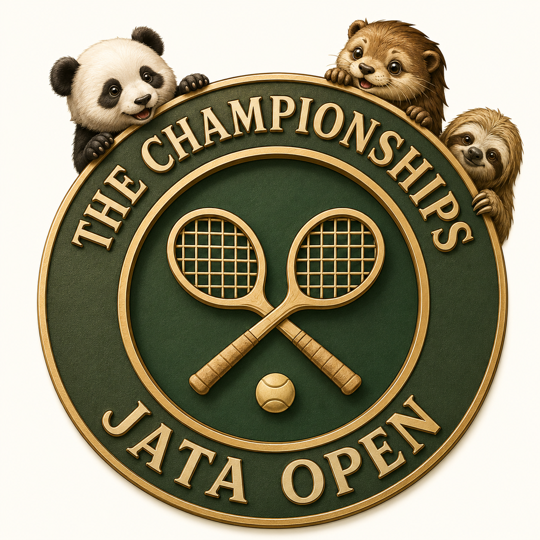
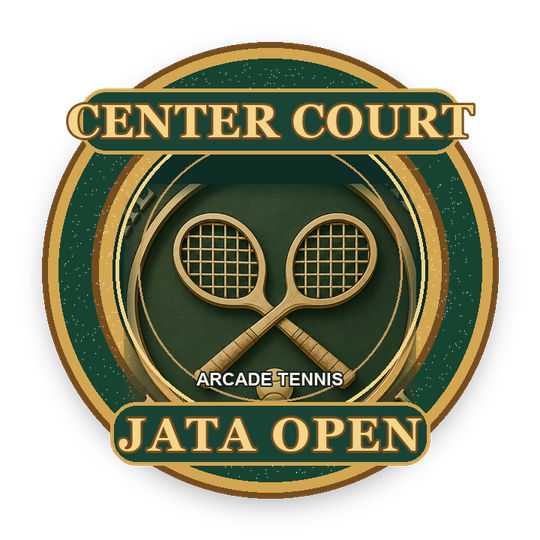
Replace CENTER COURT emblem with safer badge

diff --git a/obsidian/30_PROJECTS/_GAME_DEV/tennis/2026-06-29_報告書_CENTER_COURT_Tennis.md b/obsidian/30_PROJECTS/_GAME_DEV/tennis/2026-06-29_報告書_CENTER_COURT_Tennis.md
@@ -46,9 +46,9 @@ https://jata-center-court-tennis.vercel.app/
 Vercel:
 
 - project: `jata-center-court-tennis`
-- production deployment: `https://jata-center-court-tennis-pqbgesb1g-teru2nd-ship-its-projects.vercel.app`
-- deployment id: `dpl_Gb1StyXuPF5i7WpN5mxYbdSv2DTv`
-- inspect: `https://vercel.com/teru2nd-ship-its-projects/jata-center-court-tennis/Gb1StyXuPF5i7WpN5mxYbdSv2DTv`
+- production deployment: `https://jata-center-court-tennis-hg26fthgg-teru2nd-ship-its-projects.vercel.app`
+- deployment id: `dpl_GMfHrPygFb9YTaEiwCwKdXHxE6i5`
+- inspect: `https://vercel.com/teru2nd-ship-its-projects/jata-center-court-tennis/GMfHrPygFb9YTaEiwCwKdXHxE6i5`
 
 ## 実装したこと
 
@@ -68,6 +68,7 @@ Vercel:
 - 画面内の見える文言をほぼ英語へ変更。
 - サービスエース判定を追加し、`ACE!` / `CPU ACE!` で盛り上がる演出を追加。
 - いつもの `teru44.net/games` 戻るボタンと、iPhoneは別ウィンドウ / PC・iPadは全画面ボタンを追加。
+- 公開後、既存エンブレムの `THE CHAMPIONSHIPS` 表記がWimbledon連想リスクになり得るため、Image2の中央ラケット/ボール素材を活かした `CENTER COURT / JATA OPEN` 独自バッジへ差し替え。
 
 ## 確認済み
 
@@ -83,6 +84,8 @@ Vercel:
 - Vercel production deploy 完了。
 - `https://jata-center-court-tennis.vercel.app/` は `curl -I` で `HTTP/2 200`。
 - `https://jata-center-court-tennis.vercel.app/assets/jata-open-emblem.png` は `curl -I` で `HTTP/2 200`。
+- エンブレム差し替え後、Vercel production へ再デプロイ完了。
+- 差し替え後の `https://jata-center-court-tennis.vercel.app/assets/jata-open-emblem.png` は `curl -I` で `HTTP/2 200`。
 
 ## 現在の状態
 

diff --git a/game-dev-room/prototypes/center-court-tennis/README.md b/game-dev-room/prototypes/center-court-tennis/README.md
@@ -56,8 +56,8 @@ python3 -m http.server 8000 --directory game-dev-room/prototypes/center-court-te
 
 - Production URL: https://jata-center-court-tennis.vercel.app/
 - Vercel project: `jata-center-court-tennis`
-- Latest production deployment: `https://jata-center-court-tennis-pqbgesb1g-teru2nd-ship-its-projects.vercel.app`
-- Deployment id: `dpl_Gb1StyXuPF5i7WpN5mxYbdSv2DTv`
+- Latest production deployment: `https://jata-center-court-tennis-hg26fthgg-teru2nd-ship-its-projects.vercel.app`
+- Deployment id: `dpl_GMfHrPygFb9YTaEiwCwKdXHxE6i5`
 - Deployed from this folder with Vercel CLI on 2026-06-29.
 
 ## Next Candidates
@@ -84,3 +84,5 @@ python3 -m http.server 8000 --directory game-dev-room/prototypes/center-court-te
 - 2026-06-29: Added procedural BGM, crowd reactions, SFX, natural out-ball drift, and the JATA OPEN emblem on title/result overlays.
 - 2026-06-29: Switched visible UI language to mostly English and added service ace detection with `ACE!` / `CPU ACE!` callouts.
 - 2026-06-29: Published production deployment to Vercel at `https://jata-center-court-tennis.vercel.app/`.
+- 2026-06-29: Reworked the JATA OPEN emblem into an original `CENTER COURT / JATA OPEN` badge and removed the risky `THE CHAMPIONSHIPS` wording.
+- 2026-06-29: Redeployed the safer emblem to Vercel production.